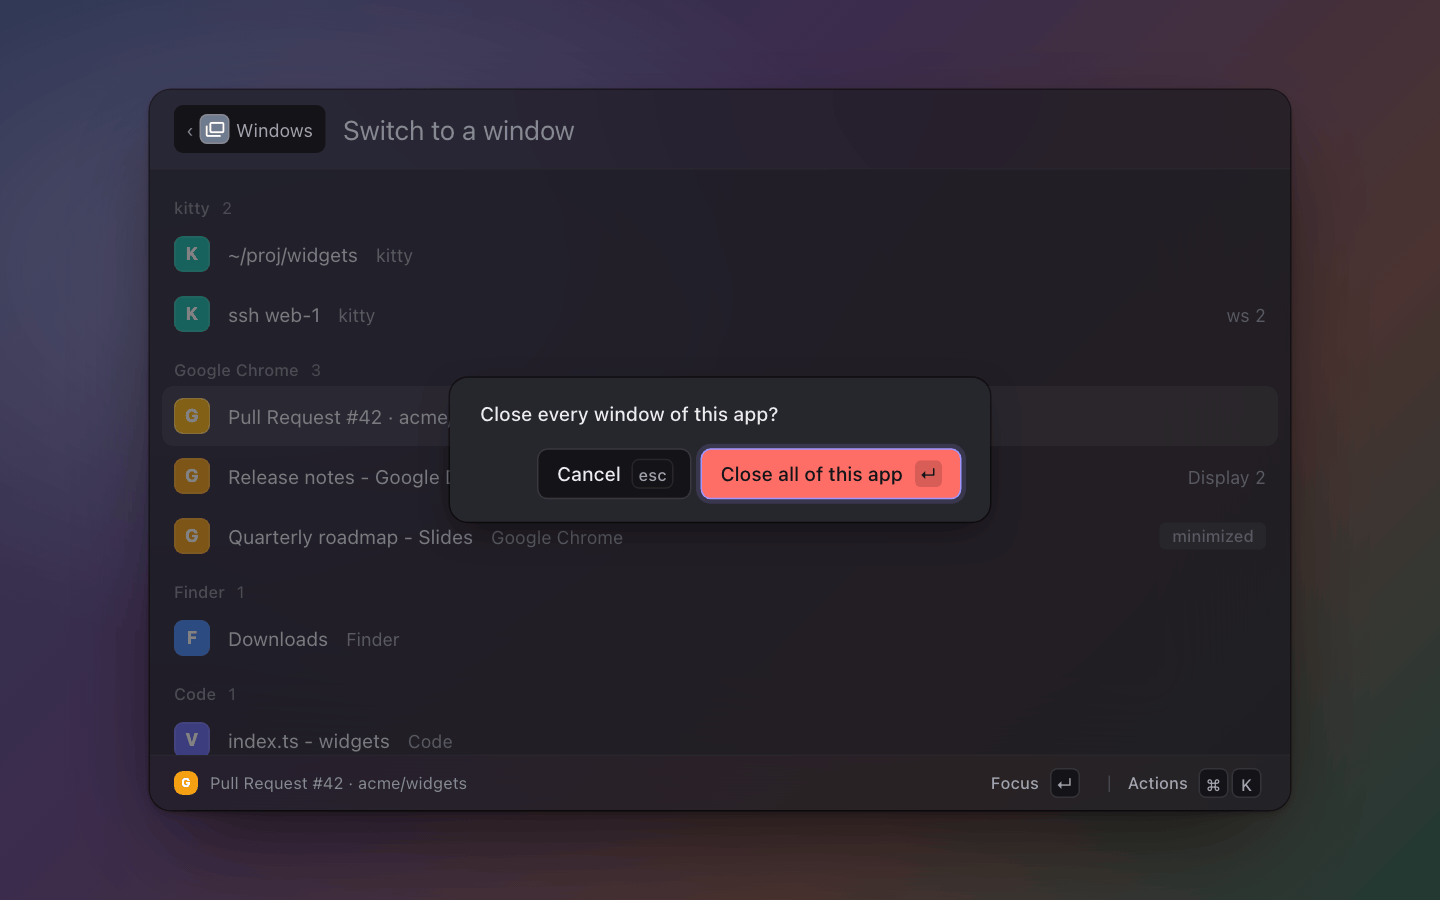
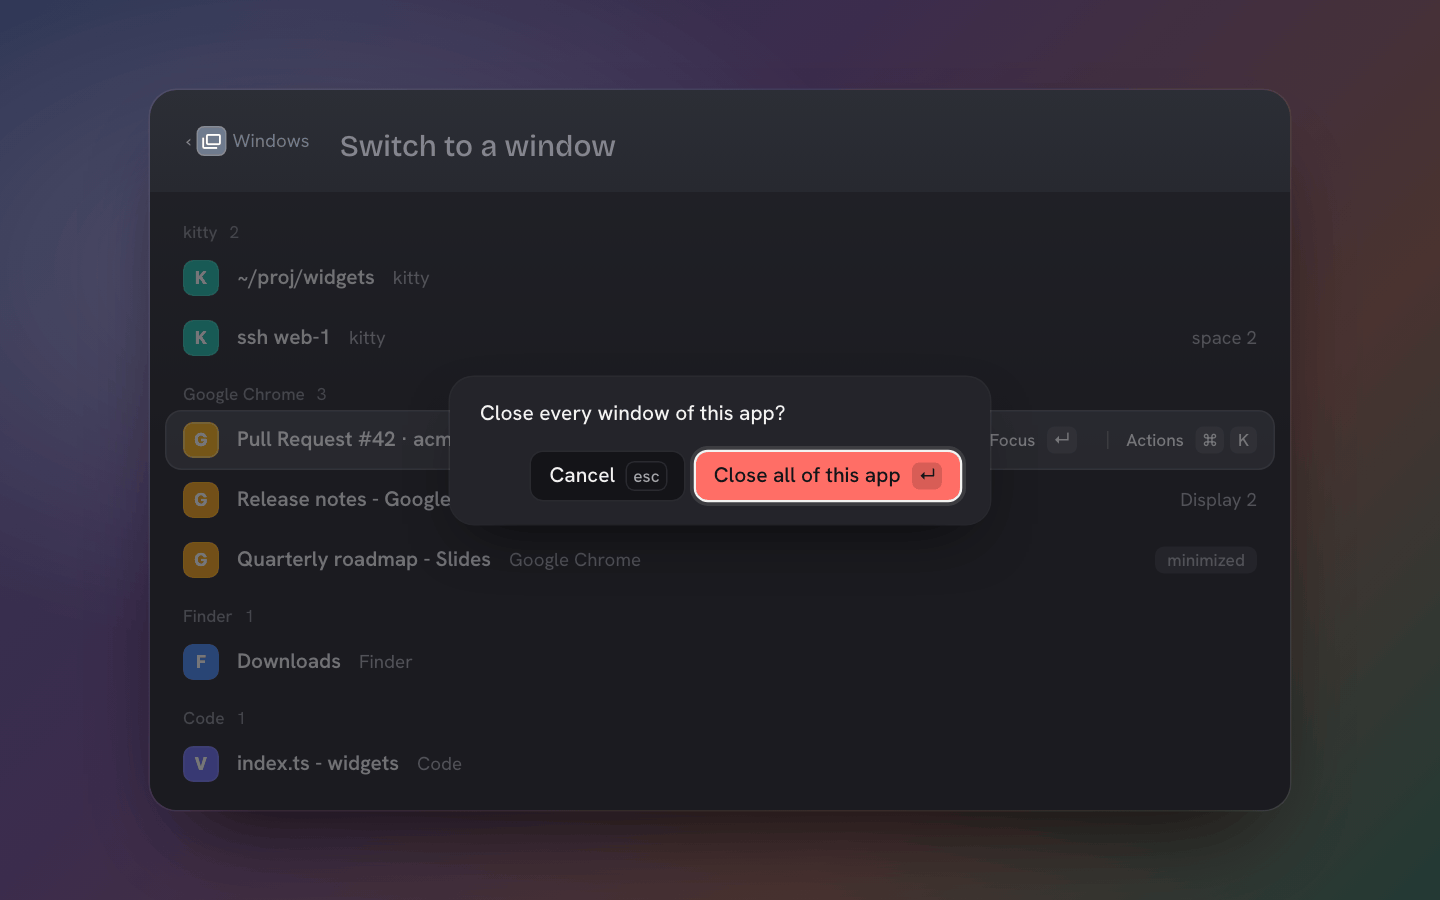
windows: a window on another space says space 2 (or the space's name), not ws 2; Ink screenshots

diff --git a/test/windows.test.ts b/test/windows.test.ts
@@ -65,7 +65,7 @@ describe("windows", () => {
     expect(items[1]).toMatchObject({ icon: "\u{f05af}", section: "Google Chrome", accessories: [{ tag: "minimized" }, { text: "Display 2" }] });
     // A minimised window has no Minimize; an app with one window has no per-app actions.
     expect(items[1].actions!.map((a) => a.id)).toEqual(["focus", "close", ...(MAC ? ["hide-app"] : [])]);
-    expect(items[2].accessories).toEqual([{ text: "ws 3" }]);
+    expect(items[2].accessories).toEqual([{ text: "space 3" }]);
     expect(items[3].actions!.map((a) => a.id)).toEqual(["focus", "close", ...perApp]);
     // A hidden app's window is `hidden`, not `other space`; Show app replaces Hide app on it.
     expect(items[4].accessories).toEqual([{ tag: "hidden" }]);
@@ -132,7 +132,7 @@ describe("windows", () => {
       expect(rows.map((r) => [r.id, r.name])).toEqual([["web", "web"], ["term", "term"], ["3", "Desktop 3"], ["last", "Previous space"]]);
       expect(rows[3].subtitle).toBe("web");
       host.changeSettings("windows", { settings: { spaces: ["web", "term", "misc"] } });
-      expect((await list())[2].accessories).toEqual([{ text: "ws misc" }]);
+      expect((await list())[2].accessories).toEqual([{ text: "space misc" }]);
       host.changeSettings("windows", {});
     });
 

diff --git a/windows/index.ts b/windows/index.ts
@@ -102,7 +102,7 @@ function item(w: Window, siblings: number): Item {
   // Hidden is its own state: a hidden app's windows are off screen too, but they are not on another space.
   if (w.hidden) accessories.push({ tag: "hidden" });
   else if (w.minimized) accessories.push({ tag: "minimized" });
-  else if (!w.on_screen) accessories.push({ text: w.workspace ? `ws ${workspaceLabel(w.workspace)}` : "other space" });
+  else if (!w.on_screen) accessories.push({ text: w.workspace ? `space ${workspaceLabel(w.workspace)}` : "other space" });
   if (w.monitor) accessories.push({ text: w.monitor });
   return {
     id: w.id,

diff --git a/windows/README.md b/windows/README.md
@@ -7,7 +7,7 @@ titles are root results. Rows are grouped by app, a section per app in
 the order the most recent window of each gives; the app name is the
 subtitle and a keyword, the bundle id or window class a keyword too. A
 hidden app's window carries a `hidden` tag, a minimised one `minimized`,
-one on another workspace or space `ws 3` or `other space`, and the
+one on another workspace or space `space 3` or `other space`, and the
 monitor when known.
 
 Enter focuses: the panel hides, then the window comes up, restored if it
